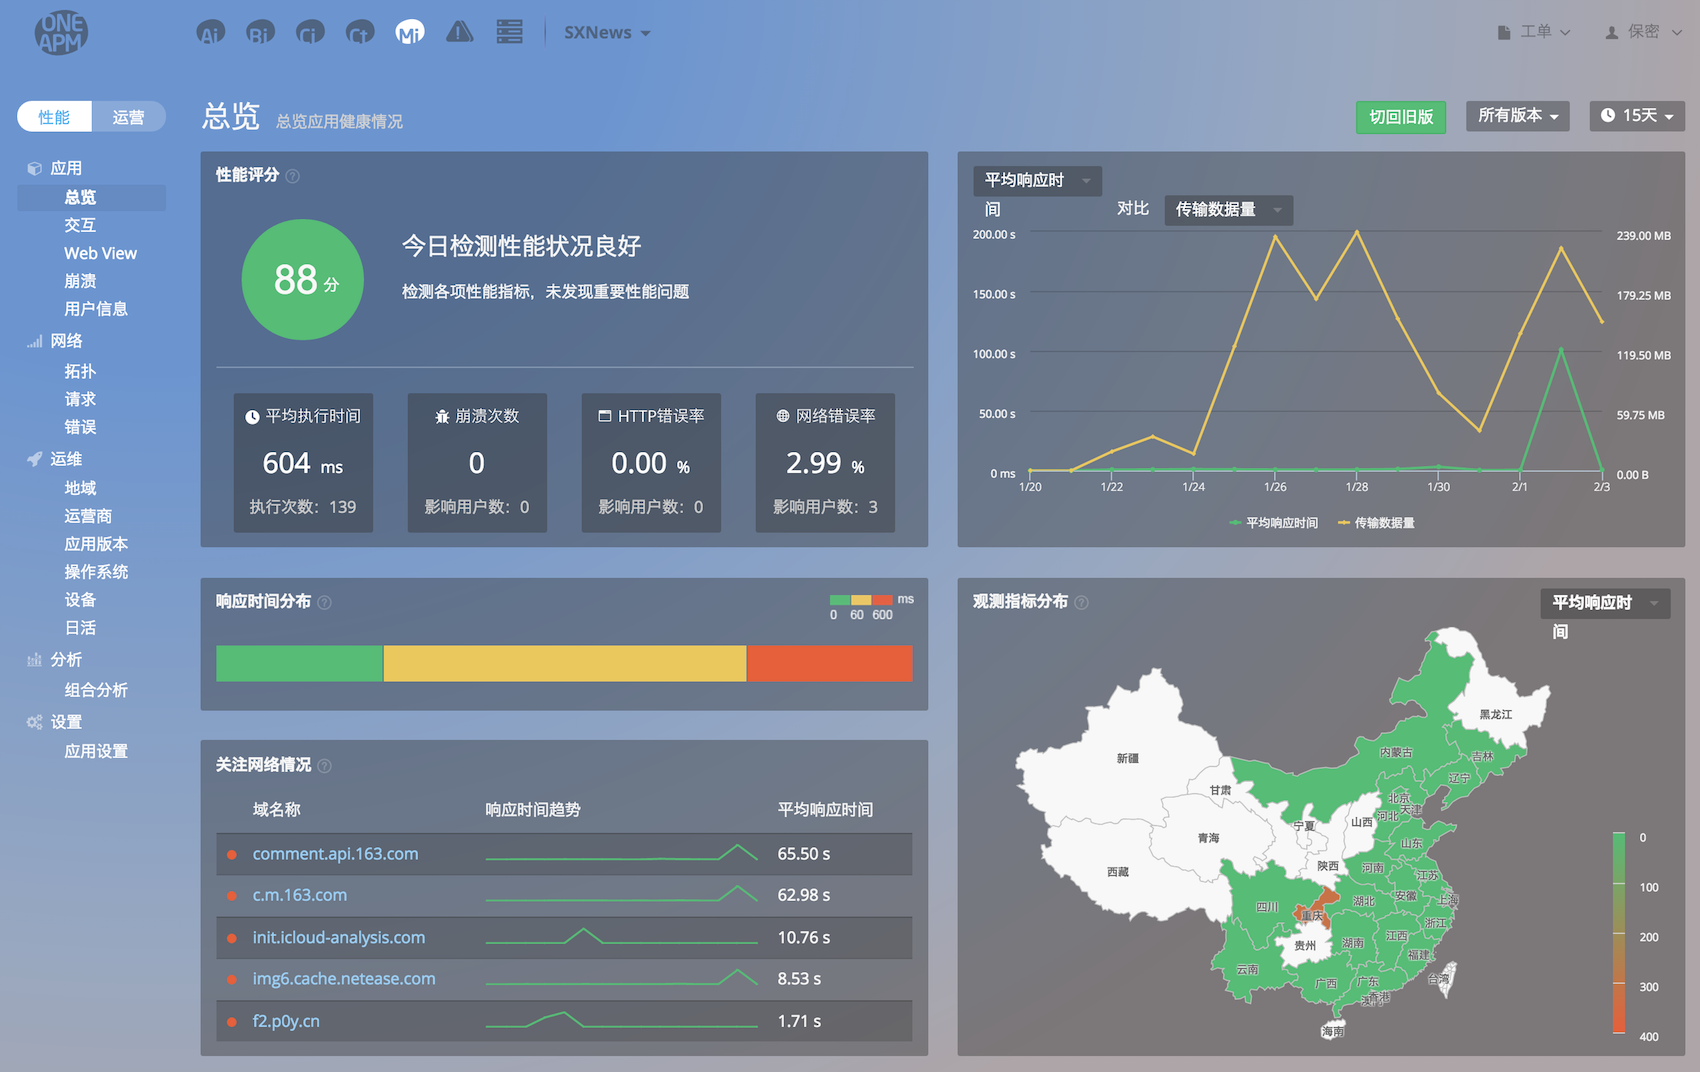
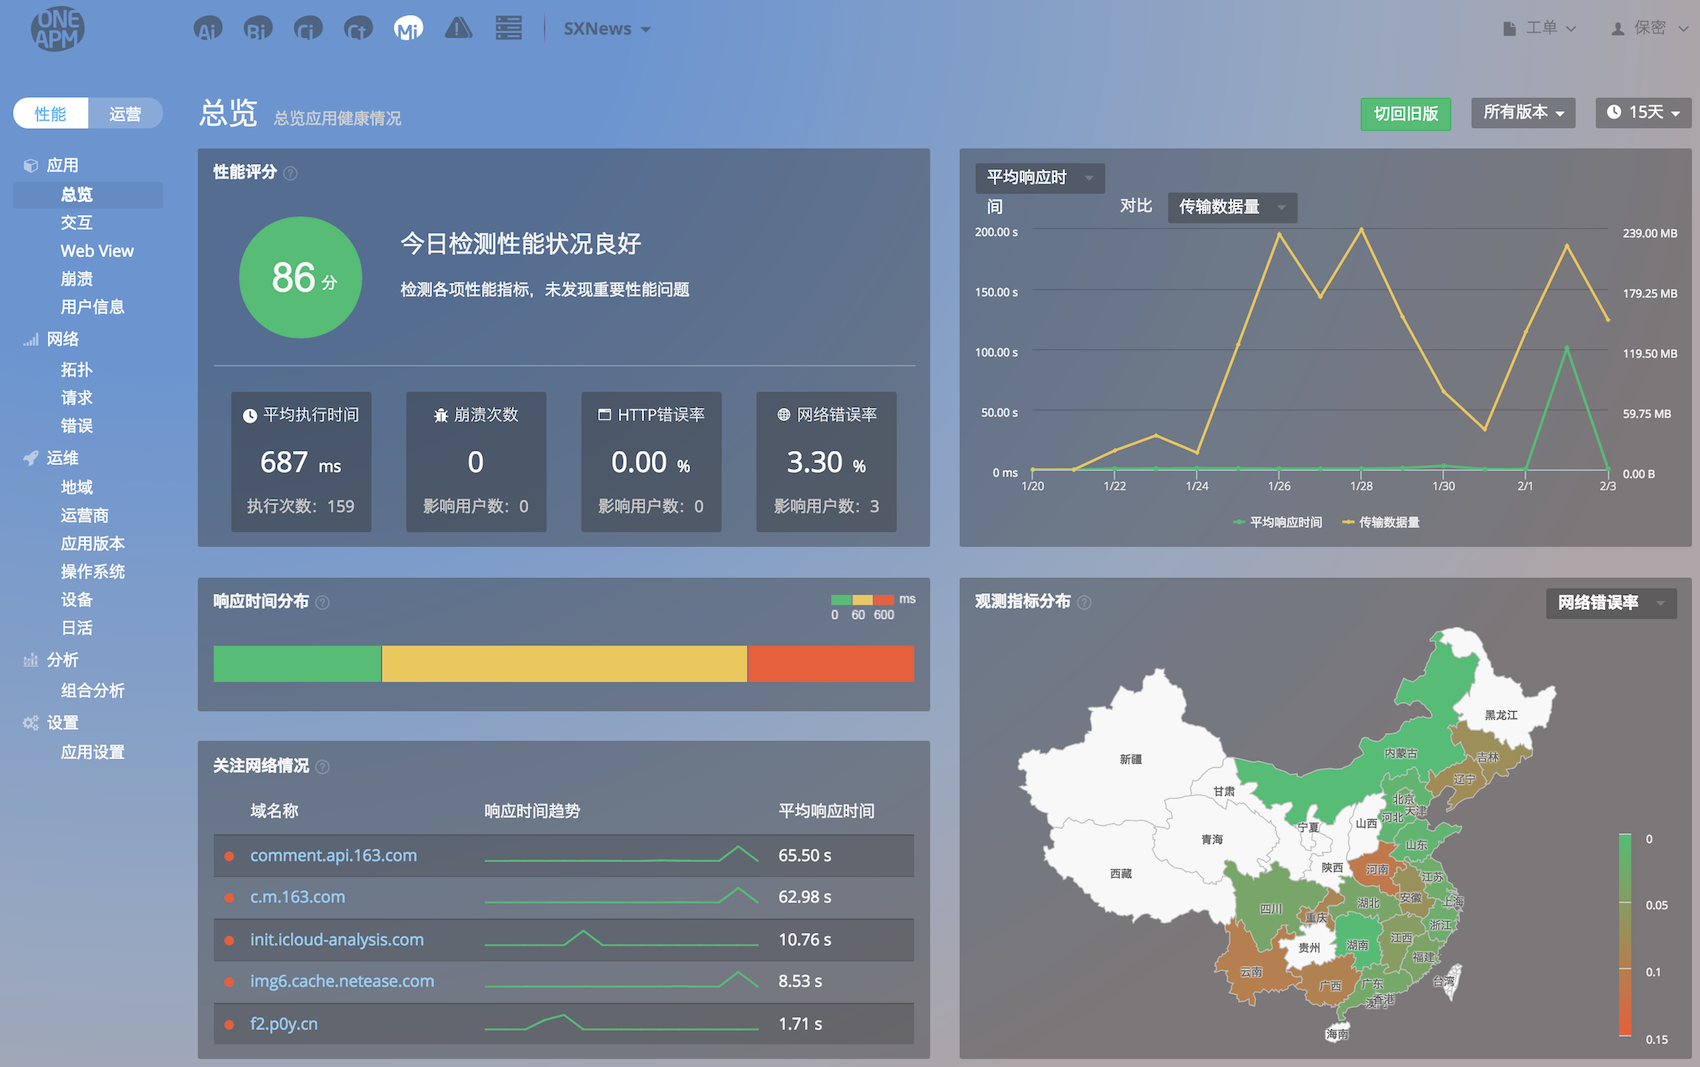
readme增加性能观测贴图

diff --git a/README.md b/README.md
@@ -1,5 +1,28 @@
 # SXNews
-模仿网易新闻做的新闻软件
+模仿网易新闻做的新闻软件<br />
+图片较多但是为了清晰就采用了些大图和gif，加载耽误你时间请见谅，如果你的网速较慢请耐心等待。
+
+---
+###2月4日更新
+
+前两周接入了一个性能观测SDK做调研，虽然对比后公司项目最终还是用了自己的库（因为他们不能观察页面FPS和内存CPU指数），但是小型app接这个第三方的性能SDK还是挺直观的，接入简单并且项目的侵入性也不大。<br />
+######1.先贴个SXNews的总览
+总评分还好哈，统计的维度也是蛮多的，响应时间有的见红了，而且流量也挺大。
+<img src="https://github.com/dsxNiubility/SXNews/raw/master/screenshots/generate.png" alt="Drawing" width="850px" />
+######2.页面打开速度
+本工程采用了storyboard，xib，手码，frame，autolayout等多种混合开发模式，单结果看来还没有太影响页面初始化和布局速度的地方。
+<img src="https://github.com/dsxNiubility/SXNews/raw/master/screenshots/launch.png" alt="Drawing" width="850px" />
+######3.用户量
+用户量其实比我想象中的要多，我开始以为全国也就能够零星的亮几个省。可结果表明还是挺受欢迎的，虽然这个项目跨度有点长，虽然有页面也都是采用投机取巧写法写的都能做“反面教材”了，但是有一些点点滴滴的地方还是有点学习价值的。 除了西北，也就贵州和黑龙江没人上github了😂（开玩笑的）？
+<img src="https://github.com/dsxNiubility/SXNews/raw/master/screenshots/active_china.png" alt="Drawing" width="850px" />
+######4.世界地图
+这个地域统计里可以看中国也可以看世界，美国和西班牙的友人也有玩过这个app的。（虽然可能是vpn...）
+<img src="https://github.com/dsxNiubility/SXNews/raw/master/screenshots/active_world.png" alt="Drawing" width="850px" />
+#####5.接口
+接口响应速度感觉不太准，还有500万秒的导致把我的平均时长都拉高了，毕竟接口全是抓的网易的不怪我了。
+<img src="https://github.com/dsxNiubility/SXNews/raw/master/screenshots/error.png" alt="Drawing" width="850px" />
+
+---
 ###2月2日更新
 这次主要是做了三点，上划返回——新闻搜索页——新闻详情页的丰富。
 ######1.上划返回
@@ -12,7 +35,7 @@
 <img src="https://github.com/dsxNiubility/SXNews/raw/master/screenshots/88.gif" alt="Drawing" width="200px" />x
 <img src="https://github.com/dsxNiubility/SXNews/raw/master/screenshots/90.gif" alt="Drawing" width="200px" />
 
-
+---
 ###9月28日更新
 _适配了iOS9_<br />
 _(如果模拟器仍有问题请使用真机调试)_<br />
@@ -21,6 +44,7 @@ _(和网易广告一样，都是这次启动下载广告图片，下一次启动
 _(请求里带了时间戳每天的广告都会不同)_<br />
 <img src="https://github.com/dsxNiubility/SXNews/raw/master/screenshots/68.gif" alt="Drawing" width="200px" />
 
+---
 ###8月24日更新
 _加载gif动图可能较慢请耐心等待_<br />
 <img src="https://github.com/dsxNiubility/SXNews/raw/master/screenshots/66.gif" alt="Drawing" width="200px" />xxxxx
